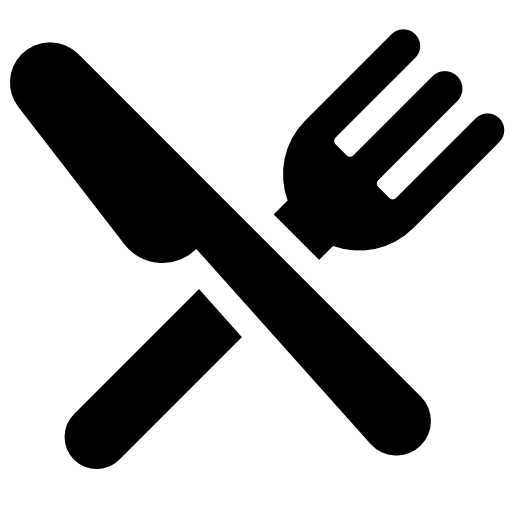
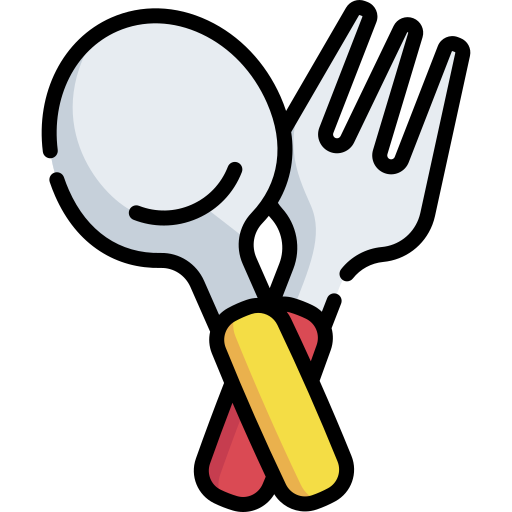
Fin

diff --git a/CSS/style.css b/CSS/style.css
@@ -1,17 +1,23 @@
 body {
   background-color: #FFF8F0;
   color: #eaeaea;
-  font-family: "Arial", sans-serif;
+  font-family: "Arial", sans-serif;  
+  max-width: 70%;   /* la largeur que tu veux */
+  margin: 0 auto;
 }
 
 .container {
-  background: #2b2b2b;
+  background: #F08080;
   padding: 30px;
   border-radius: 10px;
   box-shadow: 0 4px 8px rgba(0, 0, 0, 0.3);
 }
 
 h1 {
+   font-family: "Libre Baskerville", serif;
+  font-optical-sizing: auto;
+  font-weight: 400;
+  font-style: normal;
   font-size: 2.5rem;
   margin-bottom: 1rem;
 }
@@ -19,13 +25,20 @@ h1 {
 .form-select,
 .btn-primary {
    background-color: #E0E0E0;
-  box-shadow: 0 4px 8px rgba(0,0,0,0.1);
+  box-shadow: 0 4px 8px rgba(0,0,0,0.1); 
   border-radius: 12px;
+  border: none;
+
 }
 
 .form-select:focus,
-.btn-primary:focus {
+.btn-primary:focus,
+.btn-primary:active {
   box-shadow: none;
+  
+}
+.form-select {
+  background-color: #E76F51;
 }
 
 .btn-primary {
@@ -43,15 +56,25 @@ h1 {
 }
 
 .card-title {
+  font-family: "Playwrite NZ Guides", cursive;
+  font-weight: 400;
+  font-style: normal;
   font-size: 1.5rem;
 }
 
 .card-text {
+  font-family: "Playwrite NZ Guides", cursive;
+  font-weight: 400;
+  font-style: normal;
   font-size: 1rem;
 }
 .mb-4 {
-  font-family: Times, "Times New Roman", Georgia, serif;
+ /* font-family: Times, "Times New Roman", Georgia, serif; */
+  font-family: "PT Sans", sans-serif;
+  font-weight: 400;
+  font-style: normal;
 }
+
 
 #matter-canvas {
     position: fixed;   /* reste en arrière-plan */
@@ -61,6 +84,7 @@ h1 {
     height: 100vh;
     z-index: -1;       /* derrière le HTML */
     display: block;
+
 }
 #canvas2 {
   position: absolute;   /* superposé */
@@ -71,3 +95,15 @@ h1 {
   pointer-events: none; /* le canvas ne bloque pas le clic sur le contenu HTML */
   z-index: 9999;        /* très au-dessus de ton contenu HTML */
 }
+.playwrite-nz-guides-regular {
+  font-family: "Playwrite NZ Guides", cursive;
+  font-weight: 400;
+  font-style: normal;
+}
+.libre-baskerville{
+  font-family: "Libre Baskerville", serif;
+  font-optical-sizing: auto;
+  font-weight: 400;
+  font-style: normal;
+}
+

diff --git a/Javascript/js.js b/Javascript/js.js
@@ -13,8 +13,14 @@ var Engine = Matter.Engine,
     var images = [
     "../Images/pizza.png",
     "../Images/saucisse.png",
-    "../Images/couverts-croises.png"
-  
+    "../Images/couverts-croises.png",
+     "../Images/jus.png",
+     "../Images/steak.png",
+     "../Images/salade.png",
+     "../Images/cuisse-de-poulet.png",
+     "../Images/frites.png",
+     "../Images/saucisse.png"
+
 ];
 // create an engine
 //ar engine = Engine.create(),
@@ -51,8 +57,8 @@ var stack = Composites.stack(0, 20, 20, 5, 0, 0, function(x, y) {
         render: {
             sprite: {
                 texture: images[Math.floor(Math.random() * images.length)],
-                xScale: 0.1,
-                yScale: 0.1
+                xScale: 0.15,
+                yScale: 0.15
             }
         }
     });
@@ -120,6 +126,7 @@ canvas2.width = window.innerWidth;
 canvas2.height = window.innerHeight;
 
 const engine2 = Matter.Engine.create();
+
 const render2 = Matter.Render.create({
   canvas: canvas2,
   engine: engine2,
@@ -134,11 +141,15 @@ const box2 = Matter.Bodies.circle(400, 100, 40, {
   render: { fillStyle: '#F4A261' }
 });
 
-Matter.World.add(engine2.world, [box2, ground2]);
-Matter.Engine.run(engine2);
+Matter.World.add(engine2.world, [box2]);
+
+const runner2 = Matter.Runner.create();
+Matter.Runner.run(runner2, engine2); // <-- obligatoire
+
 Matter.Render.run(render2);
 
+
 window.addEventListener('resize', () => {
-  canvas1.width = canvas2.width = window.innerWidth;
-  canvas1.height = canvas2.height = window.innerHeight;
+  canvas.width = canvas2.width = window.innerWidth;
+  canvas.height = canvas2.height = window.innerHeight;
 });

diff --git a/PHP/index.php b/PHP/index.php
@@ -8,9 +8,18 @@
     <title>Restaurant Database</title>
     <!-- Intégration de Bootstrap pour utiliser ses composants et styles préconçus -->
     <link href="https://cdn.jsdelivr.net/npm/bootstrap@5.3.3/dist/css/bootstrap.min.css" rel="stylesheet" integrity="sha384-QWTKZyjpPEjISv5WaRU9OFeRpok6YctnYmDr5pNlyT2bRjXh0JMhjY6hW+ALEwIH" crossorigin="anonymous">
+    <!--CSS-->
     <link rel="stylesheet" href="../CSS/style.css"/>
-    <script src="../Framework/matter.js"></script>
-</head>
+    <!--JS-->
+    <script src="../Library/matter.js"></script>
+     <!--FONT-->
+    <link rel="preconnect" href="https://fonts.googleapis.com">
+    <link rel="preconnect" href="https://fonts.gstatic.com" crossorigin>
+    <link href="https://fonts.googleapis.com/css2?family=Playwrite+NZ+Guides&display=swap" rel="stylesheet">
+    <link rel="preconnect" href="https://fonts.googleapis.com">
+    <link rel="preconnect" href="https://fonts.gstatic.com" crossorigin>
+    <link href="https://fonts.googleapis.com/css2?family=PT+Sans&display=swap" rel="stylesheet">
+   
 
 <body>
     <canvas id="matter-canvas"></canvas>
@@ -28,6 +37,7 @@
                     <option value="categories">Categories</option>
                 </select>
             </div>
+            <button onclick="history.back()" class="btn btn-primary">Retour</button>
             <button type="submit" class="btn btn-primary">Display</button>
         </form>
         <div id="results" class="mt-4">
